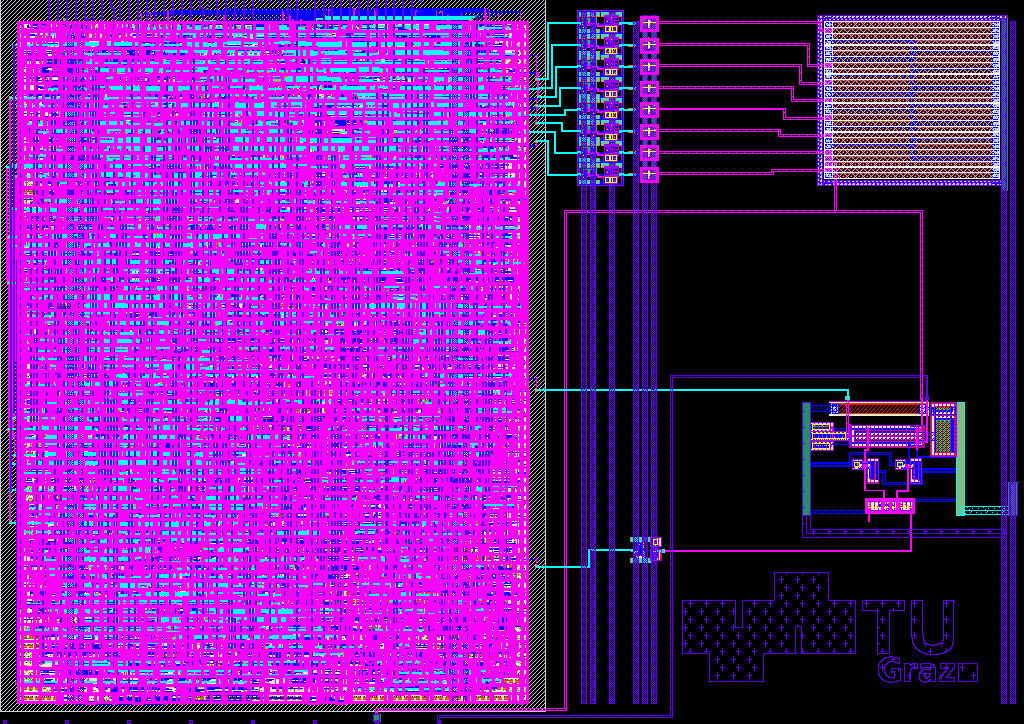
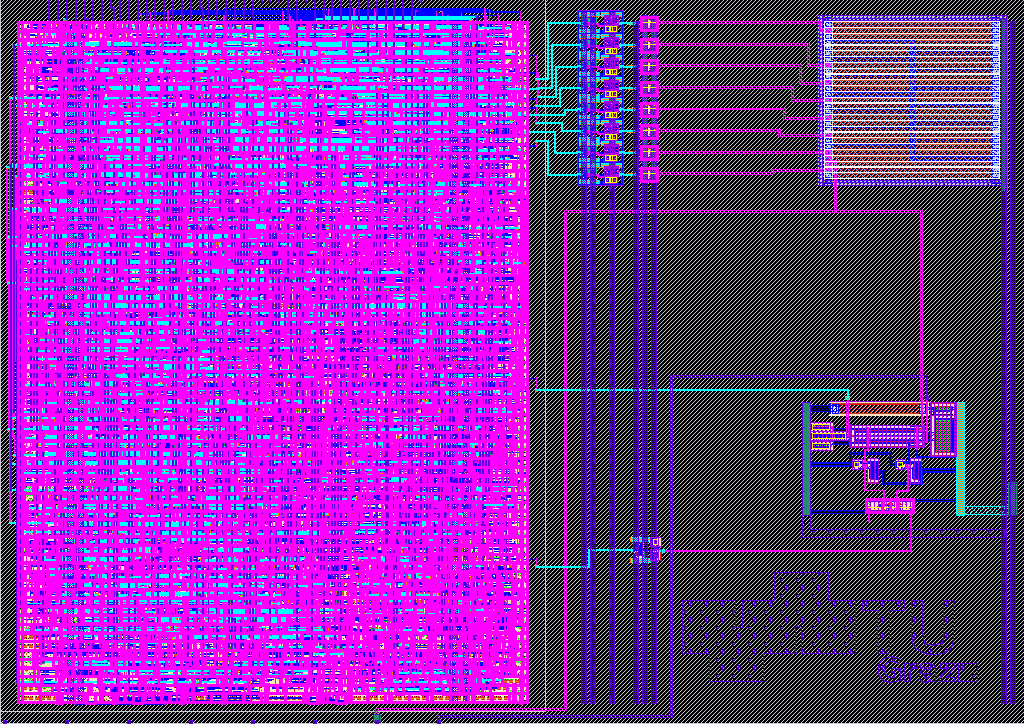
Convert paths to polygons

Changed region(s): [[0.0, 0.0, 1.0, 1.0], [0.875, 0.6077, 0.9062, 0.6381]]

diff --git a/python/merge.py b/python/merge.py
@@ -259,26 +259,27 @@ draw_stripe(144.34, 6.24, 'VGND')
 draw_stripe(315, 6.24, 'VAPWR')
 draw_stripe(315-2.8, 6.24, 'VGND')
 
-# Draw metal for analog pins
-for i in range(8):
-    box = db.DBox(0.0, 0.0, 0.9, 1.0).moved(0.93 + 19.32*i, 0)
-    top.shapes(layer_met4_drawing).insert(box)
-
 # --- Manual Routing ---
 
 # Get the manual routing
 ly_tmp = db.Layout()
 ly_tmp.read("../gds/manual_routing.gds")
 manual_routing = ly_tmp.cell('manual_routing')
+
+# TODO scale and snap converts paths to polygons
+# we make use of that to convert all paths
+# because the gds2gltf tool throws errors on paths
+ly_tmp.scale_and_snap(ly_tmp.top_cell(), 1, mult=1, div=1)
+
 manual_routing = copy_cell_to_layout(ly, manual_routing)
 
 # Insert the manual routing
 top.insert(db.DCellInstArray(manual_routing.cell_index(),
                                   db.DTrans(db.DTrans.R0, db.DPoint(0, 0))))
 
-# Convert PCells to static # TODO necessary?
-ctx = db.SaveLayoutOptions()
-ctx.write_context_info = False
+# Convert PCells to static
+#ctx = db.SaveLayoutOptions()
+#ctx.write_context_info = False
 
 # Flatten top cell one level
 #ly.top_cell().flatten(1, True)
@@ -292,7 +293,7 @@ if not os.path.exists('../lef/'):
     os.makedirs('../lef/')
 
 # Write the GDS
-ly.write(f"../gds/{top_module}.gds", ctx)
+ly.write(f"../gds/{top_module}.gds")#, ctx)
 
 # Generate the LEF file using magic
 
@@ -359,7 +360,6 @@ for label in [f'uio_in\\[{i}\\]' for i in range(8)]:
     magic_input += f'port {label} class input\n'
     magic_input += f'port {label} use signal\n'
 
-magic_input += f'property FIXED_BBOX "0 0 {319240//5} {225760//5}"\n'
 magic_input += f'lef write {lef_out} -hide -pinonly\n'
 
 with subprocess.Popen(
